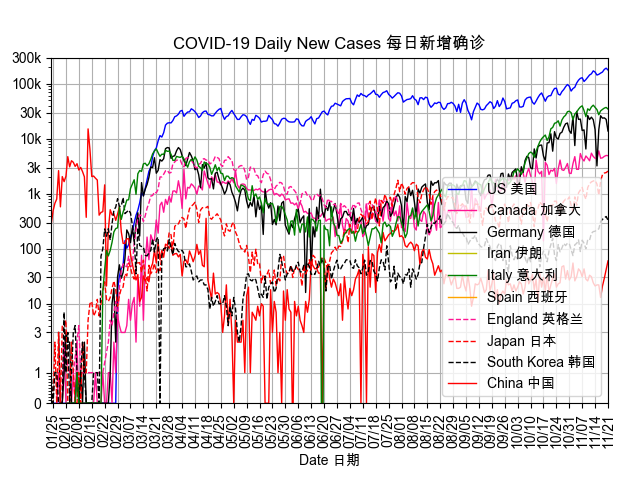
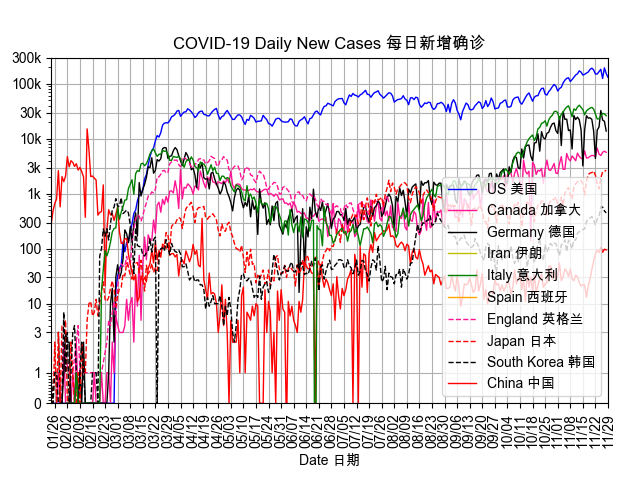
updated with Nov 29 data

Changed region(s): [[0.0625, 0.125, 0.9688, 0.9375], [0.9062, 0.4375, 0.9375, 0.4688]]

diff --git a/README.md b/README.md
@@ -4,12 +4,6 @@
 
 ![NewCases Per Million Population 各国新增每百万人口 vs Sum Per Million Population 累计每百万人口](/DailyCountryMillion.png)
 
-![China CurrentCases 全国现有](/CurrentCases.png)
-
-![China NewCases 全国新增](/NewCases.png)
-
-![HuBei NewCases 湖北省新增](/HuBeiNewCases.png)
-
 All data are from www.nhc.gov.cn, covidtracking.com and WiKi
 
 信息来自国家卫生健康委员会官方网站, covidtracking.com, 和WiKi
